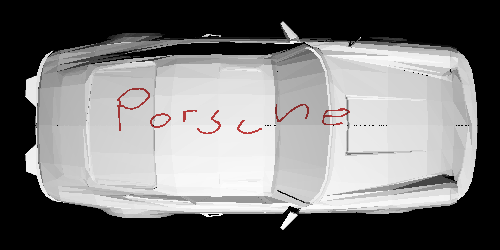
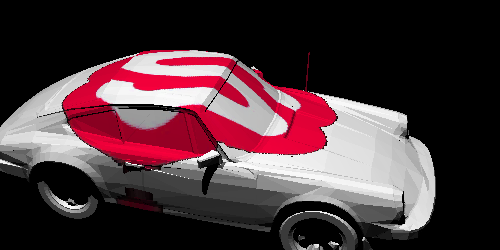
svelte texture:

diff --git a/src/main.cpp b/src/main.cpp
@@ -22,7 +22,7 @@ int main(int argc, char **argv)
         return -1;
     }
 
-    Scene test(file, 15, std::string("textures/white.png").data());
+    Scene test(file, 15, std::string("textures/svelte.png").data());
 
     int type;
     bool safe;
@@ -39,11 +39,11 @@ int main(int argc, char **argv)
     }
 
     //Topdown
-    Vector3D eye = Vector3D(0,15, 0);
-    Vector3D view = Vector3D(0,-1,0);
+    //Vector3D eye = Vector3D(0,15, 0);
+    //Vector3D view = Vector3D(0,-1,0);
 
-    //Vector3D eye = Vector3D(5,10, -15);
-    //Vector3D view = Vector3D(-0.3,-0.6,1);
+    Vector3D eye = Vector3D(5,10, -15);
+    Vector3D view = Vector3D(-0.3,-0.6,1);
 
     float vw = 1;
 
